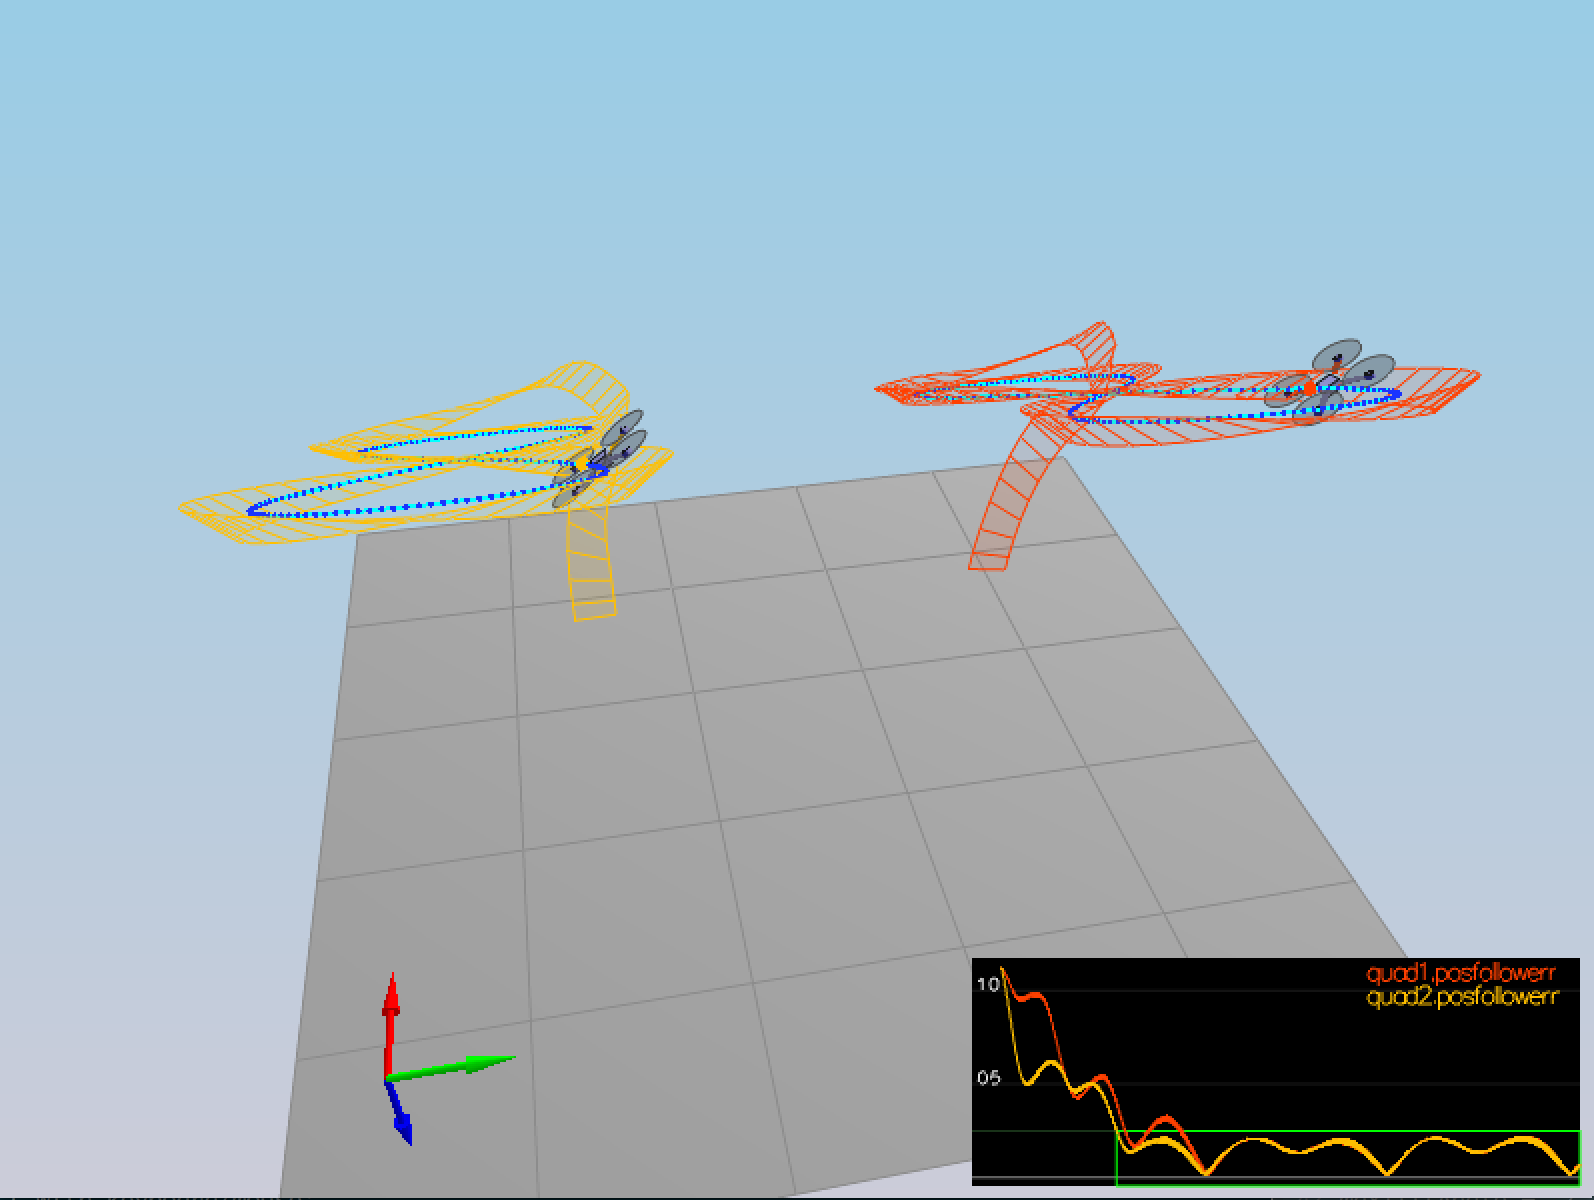
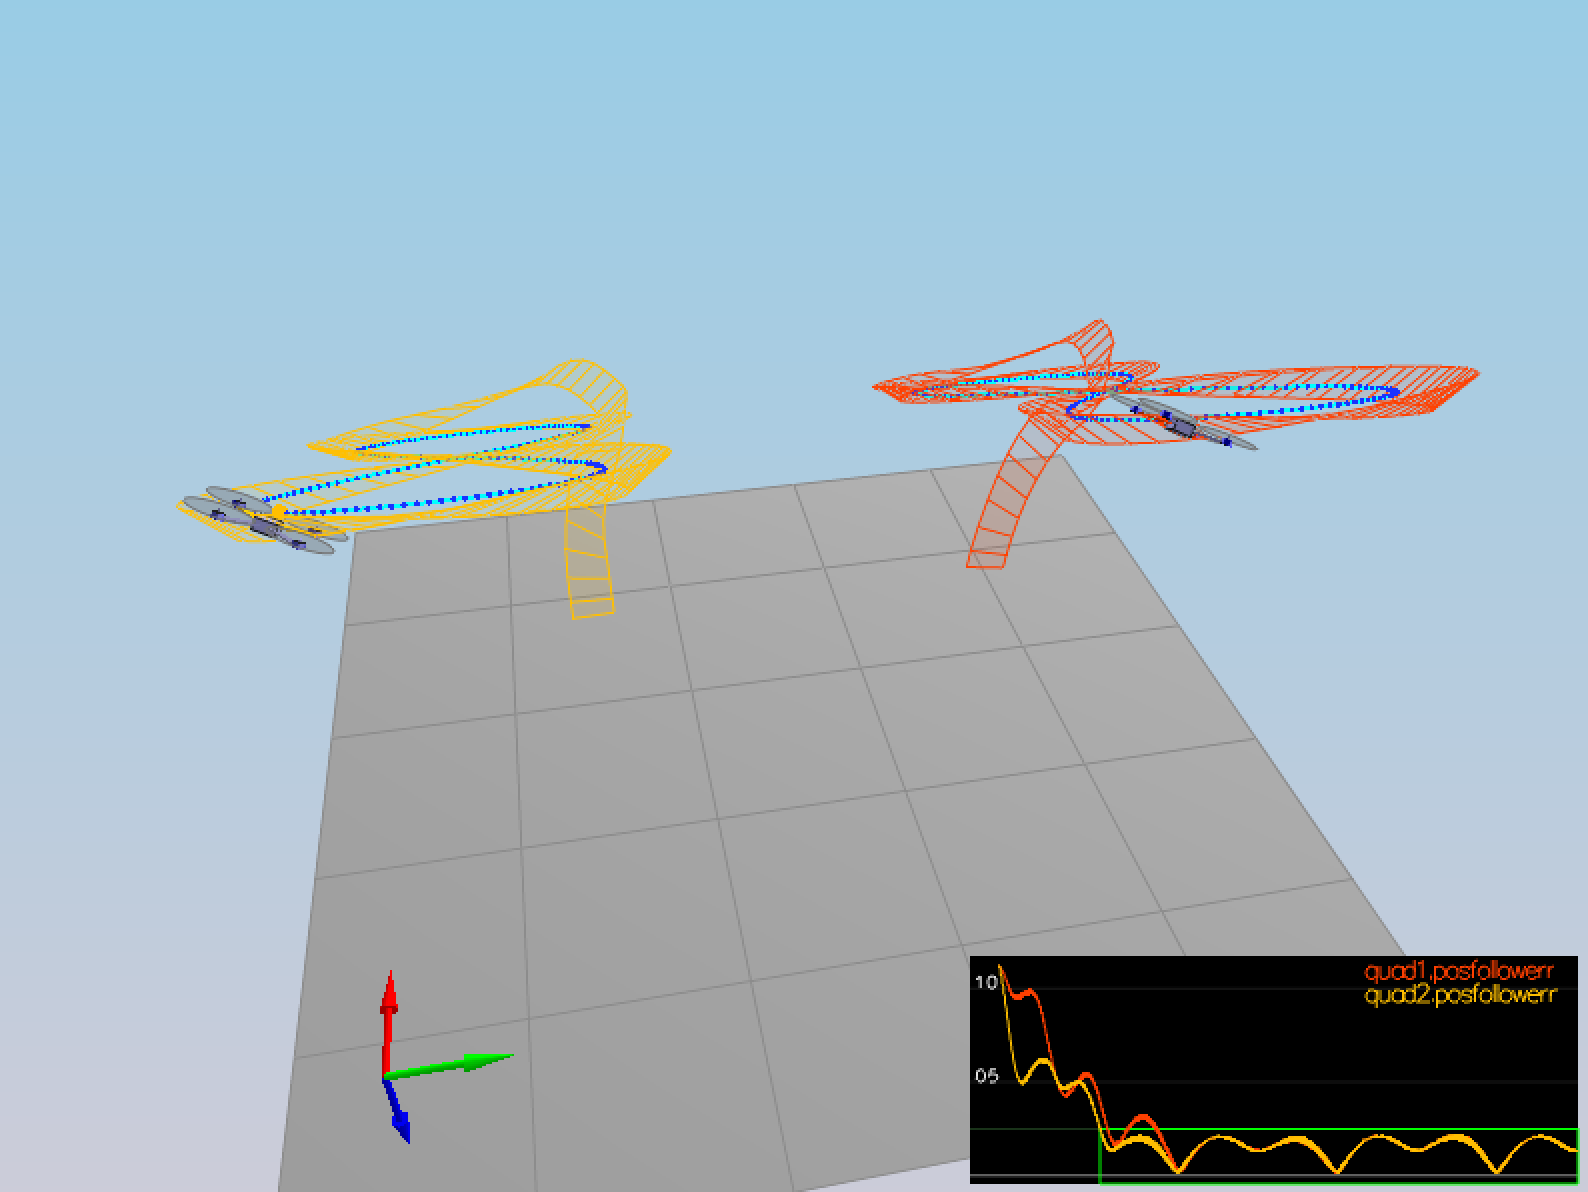
[master] added writeup for step 5. 	modified:   README.md 	modified:   images/5_TrajectoryFollow.png 	new file:   images/5_TrajectoryFollow_step1.png

diff --git a/README.md b/README.md
@@ -398,7 +398,12 @@ The chart shows as
 
 ## Solution: Scenario 5_TrajectoryFollow
 
+As waypoints define the path the drone could fly, we could generate the waypoints as expected for the
+simulation. The format of the waypoints could be stored as txt format with the data attributes as
 
+```
+time,x,y,z,vx,vy,vz
+```
 
 **Parameter Tunning**
 
@@ -411,6 +416,16 @@ route right now. Here are some tunning techniques could be followed:
 
 ### Implementation
 
+
+**Position and Velocity**
+
+If both drones are flying with the same waypoints but have different velocity, as we see from the picture,
+one is at the right yellow dot, another one is fall behind.
+
+![5_TrajectoryFollow_step1](./images/5_TrajectoryFollow_step1.png)
+
+
+**Trajectory Generation**
 
 Generating a new trajectory in ``config/traj/MakePeriodicTrajectory.py``:
 
